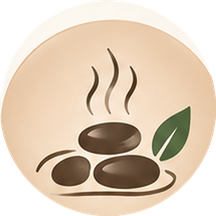
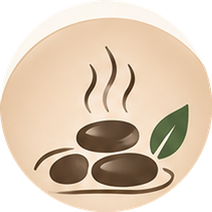
Corregir recorte de íconos y quitar inclinaciones
Los círculos de los 12 íconos de servicios quedaban cortados o con
restos de texto de las leyendas vecinas; se recalcula el recorte para
que cada uno sea un círculo completo y centrado. Se elimina la
rotación del logo del hero y de los íconos de servicios para que todo
quede alineado.

Claude-Session: https://claude.ai/code/session_01D49Q6e4fzWayhqkcptngXT

diff --git a/styles.css b/styles.css
@@ -112,7 +112,6 @@ h1,h2,h3{color:var(--ink);margin:0 0 .5em;line-height:1.15;font-weight:700}
 .hero__badge{
   position:relative;width:min(100%,340px);aspect-ratio:1;border-radius:32px;overflow:hidden;
   box-shadow:0 20px 44px -16px rgba(14,47,42,.45);
-  transform:rotate(-2deg);
 }
 .hero__logo{width:100%;height:100%;object-fit:cover}
 
@@ -132,7 +131,7 @@ h1,h2,h3{color:var(--ink);margin:0 0 .5em;line-height:1.15;font-weight:700}
   border:1px solid rgba(18,56,50,.06);
   transition:transform .2s ease, box-shadow .2s ease;
 }
-.service-card:hover{transform:translateY(-6px) rotate(-1deg);box-shadow:0 20px 34px -16px rgba(18,56,50,.28)}
+.service-card:hover{transform:translateY(-6px);box-shadow:0 20px 34px -16px rgba(18,56,50,.28)}
 .service-card__icon{
   width:76px;height:76px;display:flex;align-items:center;justify-content:center;margin-bottom:16px;
   position:relative;border-radius:50%;
@@ -140,9 +139,7 @@ h1,h2,h3{color:var(--ink);margin:0 0 .5em;line-height:1.15;font-weight:700}
   transition:transform .2s ease;
 }
 .service-card__icon img{width:100%;height:100%;border-radius:50%;object-fit:cover}
-.services__grid .service-card:nth-child(2n) .service-card__icon{transform:rotate(-4deg)}
-.services__grid .service-card:nth-child(2n+1) .service-card__icon{transform:rotate(3deg)}
-.service-card:hover .service-card__icon{transform:rotate(0deg) scale(1.05)}
+.service-card:hover .service-card__icon{transform:scale(1.05)}
 .service-card h3{font-size:1.02rem;margin-bottom:8px;letter-spacing:-.005em}
 .service-card p{color:var(--text-soft);font-size:.88rem;margin:0}
 
